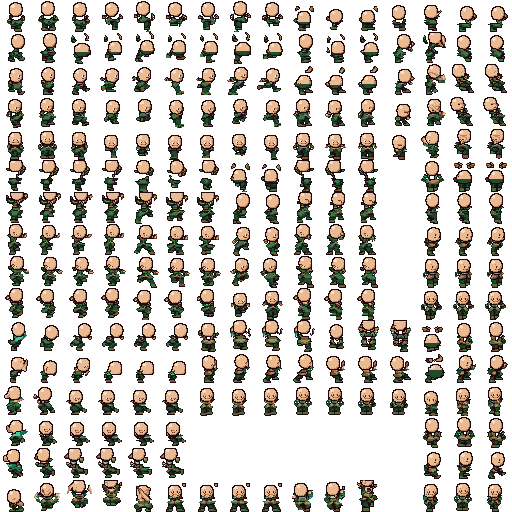
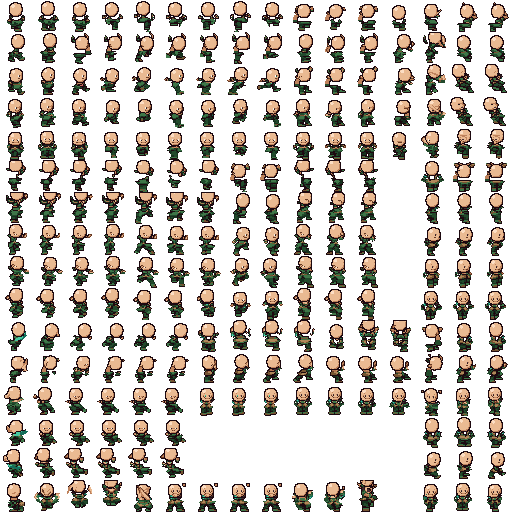
Walking toward the camera keeps the head at standing height
The original ducks its head 3-4 pixels when it runs toward the camera, which its tall hair bun hid; bald, the head visibly dropped in the walk-down frames. A head whose face sits more than a pixel under its standing height is now lifted back, face and all, and a neck fills in under it. The audit measures class sheets at the size the game draws them (CLASS_DRAW_SCALE, matching HERO_SKIN_DRAW_SCALE): 44.9 world units tall against the original's 45.

diff --git a/misc/hero_skins/make_skins.py b/misc/hero_skins/make_skins.py
@@ -287,6 +287,9 @@ BALD_RX = 7.0
 BALD_RY = 7.2
 BALD_DROP = 1.0
 BALD_FACE_LIFT = 2.5
+# NOTE: the face's middle row when standing facing the camera, plus a pixel
+# of bob; lower than this the head is lifted
+FACE_Y_MAX = 13.0
 
 
 def bald_head(cell):
@@ -320,11 +323,16 @@ def bald_head(cell):
         fx = np.array([x for y, x in face_patch])
         cy = fy.mean() + 0.5 - BALD_FACE_LIFT - BALD_DROP
         neck = fy.max() + 1.5
+        # NOTE: the original ducks its head when it runs toward the camera
+        # (its hair bun hid it); a bald head is lifted back to its standing
+        # height, give or take a pixel, and a neck fills in under it
+        lift = max(0, int(round(fy.mean() - FACE_Y_MAX)))
         box = (yy >= fy.min() - 2) & (yy <= fy.max()) & (xx >= fx.min() - 2) & (xx <= fx.max() + 2)
         face = box & (skin | is_col(cell, ACCENT + [WHITE])) & ~streak
     else:
         neck = cy + NECK_BELOW_HEAD + 1
         face = np.zeros((32, 32), bool)
+        lift = 0
     old = ((xx + 0.5 - cx) / 10.5) ** 2 + ((yy + 0.5 - cy) / 9.5) ** 2 <= 1.0
     old &= yy + 0.5 < neck
     face &= yy + 0.5 < neck
@@ -333,7 +341,7 @@ def bald_head(cell):
     cell[gone] = 0
     # NOTE: the head sits where the face says, the face on its lower half;
     # seen from behind (no face) a little under the hair's centre
-    by = cy + BALD_DROP
+    by = cy + BALD_DROP - lift
     bx = cx
     nx = (xx + 0.5 - bx) / BALD_RX
     ny = (yy + 0.5 - by) / BALD_RY
@@ -348,7 +356,14 @@ def bald_head(cell):
     cell[dome & shine] = SHINE + (255,)
     # NOTE: the face goes back where it was, over the dome; no hair is left
     # anywhere (the long hair down the back, the ponytail)
-    cell[face] = keep[face]
+    moved = np.roll(face, -lift, 0)
+    cell[moved] = np.roll(keep, -lift, 0)[moved]
+    if lift and face_patch:
+        mx = fx.mean()
+        for y in range(int(fy.max()) - lift + 1, int(fy.max()) + 1):
+            for x in range(int(mx - 1.5), int(mx + 2.5)):
+                if 0 <= y < 32 and 0 <= x < 32 and (cell[y, x, 3] == 0 or tuple(cell[y, x, :3]) == OUTLINE):
+                    cell[y, x] = SKIN[1] + (255,)
     hair = is_col(cell, HAIR) | (is_col(cell, METAL) & old)
     cell[hair] = 0
     cell = reoutline(cell, hair | gone)
@@ -358,7 +373,7 @@ def bald_head(cell):
     cell[edge] = OUTLINE + (255,)
     # NOTE: the dome's own rim inside the old outline: darken its edge
     rim = dome & ~(np.roll(dome, 1, 0) & np.roll(dome, -1, 0) & np.roll(dome, 1, 1) & np.roll(dome, -1, 1))
-    rim &= ~face
+    rim &= ~moved
     cell[rim & (cell[..., 3] > 0)] = OUTLINE + (255,)
     # NOTE: the streak keeps marker colours from here on, so the new head
     # it may touch is never taken for it

diff --git a/misc/hero_skins/audit.py b/misc/hero_skins/audit.py
@@ -27,6 +27,9 @@ from PIL import Image
 from make_skins import original_sheet, P
 
 MIN_SCORE = 85
+# NOTE: the game draws a class's sheet this much larger than the original
+# (HERO_SKIN_DRAW_SCALE, client/heroes/hero_skins.cpp)
+CLASS_DRAW_SCALE = 1.15
 FACINGS = ['down', 'up', 'right']
 # NOTE: first frame and count per animation and facing (sim/animations.cpp)
 TABLE = {
@@ -39,15 +42,16 @@ TABLE = {
 }
 
 
-def sheet_frames(sheet):
+def sheet_frames(sheet, draw_scale=1.0):
     """the played frames of a 16x16 sheet of 32-pixel cells, drawn at 48
-    world units; the game counts the sheet's rows from the bottom"""
+    world units times draw_scale; the game counts the sheet's rows from
+    the bottom"""
     def cell(i):
         c, r = i % 16, 15 - i // 16
         return sheet[r * 32:(r + 1) * 32, c * 32:(c + 1) * 32]
     frames = {(a, f): [cell(s + k) for k in range(n)]
               for a, (starts, n) in TABLE.items() for f, s in starts.items()}
-    return {'frames': frames, 'scale': 48 / 32}
+    return {'frames': frames, 'scale': draw_scale * 48 / 32}
 
 
 # ---------------------------------------------------------------- metrics
@@ -230,7 +234,7 @@ if __name__ == '__main__':
     failed = []
     for name in P:
         sheet = np.asarray(Image.open(os.path.join(folder, name + '.png')).convert('RGBA'))
-        m = measure(sheet_frames(sheet))
+        m = measure(sheet_frames(sheet, CLASS_DRAW_SCALE))
         total, parts, gates = score(m, ref)
         ok = all(gates.values()) and total >= MIN_SCORE
         if not ok:
